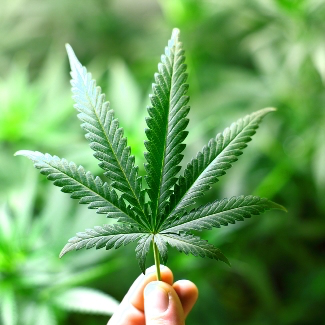
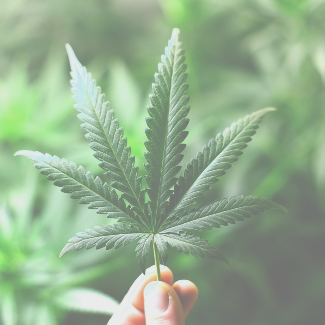
added opaque background

diff --git a/app/assets/stylesheets/strains.css b/app/assets/stylesheets/strains.css
@@ -4,10 +4,11 @@ body {
   background-color: #E4FDE1;
 }
 .unique {
-  background-image:url(leaf3.png);
+  background-image:url(leaf2.png);
   /*background-repeat: no-repeat;*/
   background-size: cover;
   padding: 15%;
+  /*opacity: .5;*/
 }
 
 /*intro page*/
